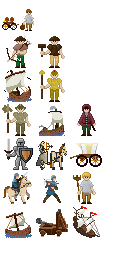
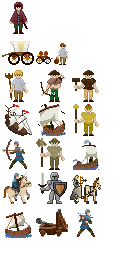
Unit: Implement composite bowman

Changed region(s): [[0.0, 0.0, 0.8125, 0.9375]]

diff --git a/core/src/main/java/me/rhin/openciv/game/unit/type/CompositeBowman.java b/core/src/main/java/me/rhin/openciv/game/unit/type/CompositeBowman.java
@@ -7,23 +7,23 @@ import me.rhin.openciv.asset.TextureEnum;
 import me.rhin.openciv.game.city.City;
 import me.rhin.openciv.game.map.tile.Tile;
 import me.rhin.openciv.game.map.tile.TileType.TileProperty;
-import me.rhin.openciv.game.research.type.ArcheryTech;
 import me.rhin.openciv.game.research.type.ConstructionTech;
+import me.rhin.openciv.game.research.type.MachineryTech;
 import me.rhin.openciv.game.unit.AttackableEntity;
 import me.rhin.openciv.game.unit.RangedUnit;
 import me.rhin.openciv.game.unit.UnitItem;
 import me.rhin.openciv.game.unit.UnitParameter;
 
-public class Archer extends UnitItem {
+public class CompositeBowman extends UnitItem {
 
-	public Archer(City city) {
+	public CompositeBowman(City city) {
 		super(city);
 	}
 
-	public static class ArcherUnit extends RangedUnit {
+	public static class CompositeBowmanUnit extends RangedUnit {
 
-		public ArcherUnit(UnitParameter unitParameter) {
-			super(unitParameter, TextureEnum.UNIT_ARCHER);
+		public CompositeBowmanUnit(UnitParameter unitParameter) {
+			super(unitParameter, TextureEnum.UNIT_COMPOSITE_BOWMAN);
 		}
 
 		@Override
@@ -36,7 +36,7 @@ public class Archer extends UnitItem {
 
 		@Override
 		public int getRangedCombatStrength(AttackableEntity target) {
-			return 7;
+			return 11;
 		}
 
 		@Override
@@ -46,47 +46,48 @@ public class Archer extends UnitItem {
 
 		@Override
 		public boolean canUpgrade() {
-			return playerOwner.getResearchTree().hasResearched(ConstructionTech.class);
+			return playerOwner.getResearchTree().hasResearched(MachineryTech.class);
 		}
 	}
 
 	@Override
 	protected float getUnitProductionCost() {
-		return 40;
+		return 75;
 	}
 
 	@Override
 	public float getGoldCost() {
-		return 100;
+		return 150;
 	}
 
 	@Override
 	public boolean meetsProductionRequirements() {
-
-		//Composite bowman can be built
-		if (city.getPlayerOwner().getResearchTree().hasResearched(ConstructionTech.class))
+		
+		//Crossbowman can be built.
+		if (city.getPlayerOwner().getResearchTree().hasResearched(MachineryTech.class))
 			return false;
-
-		return city.getPlayerOwner().getResearchTree().hasResearched(ArcheryTech.class);
+		
+		return city.getPlayerOwner().getResearchTree().hasResearched(ConstructionTech.class);
 	}
 
 	@Override
 	public String getName() {
-		return "Archer";
+		return "Composite Bowman";
 	}
 
 	@Override
 	public TextureEnum getTexture() {
-		return TextureEnum.UNIT_ARCHER;
+		return TextureEnum.UNIT_COMPOSITE_BOWMAN;
 	}
 
 	@Override
 	public String getDesc() {
-		return "A ancient ranged unit.";
+		return "A classical ranged unit.";
 	}
 
 	@Override
 	public List<UnitType> getUnitItemTypes() {
 		return Arrays.asList(UnitType.RANGED);
 	}
+	
 }

diff --git a/server/src/main/java/me/rhin/openciv/server/game/unit/type/CompositeBowman.java b/server/src/main/java/me/rhin/openciv/server/game/unit/type/CompositeBowman.java
@@ -7,25 +7,27 @@ import me.rhin.openciv.server.game.AbstractPlayer;
 import me.rhin.openciv.server.game.city.City;
 import me.rhin.openciv.server.game.map.tile.Tile;
 import me.rhin.openciv.server.game.map.tile.TileType.TileProperty;
+import me.rhin.openciv.server.game.research.type.ConstructionTech;
 import me.rhin.openciv.server.game.research.type.MachineryTech;
 import me.rhin.openciv.server.game.unit.RangedUnit;
 import me.rhin.openciv.server.game.unit.Unit;
 import me.rhin.openciv.server.game.unit.UnitItem;
+import me.rhin.openciv.server.game.unit.type.Crossbowman.CrossbowmanUnit;
 import me.rhin.openciv.shared.stat.Stat;
 
-public class Crossbowman extends UnitItem {
+public class CompositeBowman extends UnitItem {
 
-	public Crossbowman(City city) {
+	public CompositeBowman(City city) {
 		super(city);
 	}
 
-	public static class CrossbowmanUnit extends RangedUnit {
+	public static class CompositeBowmanUnit extends RangedUnit {
 
-		public CrossbowmanUnit(AbstractPlayer playerOwner, Tile standingTile) {
+		public CompositeBowmanUnit(AbstractPlayer playerOwner, Tile standingTile) {
 			super(playerOwner, standingTile);
 
-			combatStrength.setValue(Stat.COMBAT_STRENGTH, 24);
-			rangedCombatStrength.setValue(Stat.COMBAT_STRENGTH, 18);
+			combatStrength.setValue(Stat.COMBAT_STRENGTH, 18);
+			rangedCombatStrength.setValue(Stat.COMBAT_STRENGTH, 12);
 		}
 
 		@Override
@@ -43,33 +45,38 @@ public class Crossbowman extends UnitItem {
 
 		@Override
 		public Class<? extends Unit> getUpgradedUnit() {
-			return null;
+			return CrossbowmanUnit.class;
 		}
 
 		@Override
 		public String getName() {
-			return "Crossbowman";
+			return "Composite Bowman";
 		}
 	}
 
 	@Override
 	public float getUnitProductionCost() {
-		return 120;
+		return 75;
 	}
 
 	@Override
 	public float getGoldCost() {
-		return 200;
+		return 150;
 	}
 
 	@Override
 	public boolean meetsProductionRequirements() {
-		return city.getPlayerOwner().getResearchTree().hasResearched(MachineryTech.class);
+		
+		//Crossbowman can be built
+		if (city.getPlayerOwner().getResearchTree().hasResearched(MachineryTech.class))
+			return false;
+		
+		return city.getPlayerOwner().getResearchTree().hasResearched(ConstructionTech.class);
 	}
 
 	@Override
 	public String getName() {
-		return "Crossbowman";
+		return "Composite Bowman";
 	}
 
 	@Override
@@ -79,7 +86,7 @@ public class Crossbowman extends UnitItem {
 
 	@Override
 	public float getBaseCombatStrength() {
-		return 24;
+		return 18;
 	}
-	
+
 }

diff --git a/server/src/main/java/me/rhin/openciv/server/game/unit/type/Archer.java b/server/src/main/java/me/rhin/openciv/server/game/unit/type/Archer.java
@@ -8,9 +8,11 @@ import me.rhin.openciv.server.game.city.City;
 import me.rhin.openciv.server.game.map.tile.Tile;
 import me.rhin.openciv.server.game.map.tile.TileType.TileProperty;
 import me.rhin.openciv.server.game.research.type.ArcheryTech;
+import me.rhin.openciv.server.game.research.type.ConstructionTech;
 import me.rhin.openciv.server.game.unit.RangedUnit;
 import me.rhin.openciv.server.game.unit.Unit;
 import me.rhin.openciv.server.game.unit.UnitItem;
+import me.rhin.openciv.server.game.unit.type.CompositeBowman.CompositeBowmanUnit;
 import me.rhin.openciv.shared.stat.Stat;
 
 public class Archer extends UnitItem {
@@ -43,7 +45,7 @@ public class Archer extends UnitItem {
 
 		@Override
 		public Class<? extends Unit> getUpgradedUnit() {
-			return null;
+			return CompositeBowmanUnit.class;
 		}
 
 		@Override
@@ -64,6 +66,11 @@ public class Archer extends UnitItem {
 
 	@Override
 	public boolean meetsProductionRequirements() {
+		
+		//Composite bowman can be built
+		if (city.getPlayerOwner().getResearchTree().hasResearched(ConstructionTech.class))
+			return false;
+		
 		return city.getPlayerOwner().getResearchTree().hasResearched(ArcheryTech.class);
 	}
 

diff --git a/core/src/main/java/me/rhin/openciv/ui/window/type/GameOverlay.java b/core/src/main/java/me/rhin/openciv/ui/window/type/GameOverlay.java
@@ -94,7 +94,8 @@ public class GameOverlay extends AbstractWindow implements ResizeListener, TileS
 
 	public void setHoveredTile(Tile tile) {
 		if (!tile.isDiscovered() && Civilization.SHOW_FOG) {
-			tileNameLabel.setText("[" + tile.getGridX() + "," + tile.getGridY() + "] Undiscovered");
+			tileNameLabel.setText("Undiscovered");
+			//tileNameLabel.setText("[" + tile.getGridX() + "," + tile.getGridY() + "] Undiscovered");
 			// tileNameLabel.setSize(0, 15);
 			clearTileStatInfo();
 			return;
@@ -108,7 +109,8 @@ public class GameOverlay extends AbstractWindow implements ResizeListener, TileS
 		this.hoveredTile = tile;
 
 		// [grass,copper]
-		String tileName = "[" + tile.getGridX() + "," + tile.getGridY() + "] ";
+		//String tileName = "[" + tile.getGridX() + "," + tile.getGridY() + "] ";
+		String tileName = "";
 		int index = 0;
 		for (TileTypeWrapper typeWrapper : tile.getTileTypeWrappers()) {
 

diff --git a/core/src/main/java/me/rhin/openciv/game/production/ProducibleItemManager.java b/core/src/main/java/me/rhin/openciv/game/production/ProducibleItemManager.java
@@ -41,6 +41,7 @@ import me.rhin.openciv.game.unit.type.Caravan;
 import me.rhin.openciv.game.unit.type.CargoShip;
 import me.rhin.openciv.game.unit.type.Catapult;
 import me.rhin.openciv.game.unit.type.ChariotArcher;
+import me.rhin.openciv.game.unit.type.CompositeBowman;
 import me.rhin.openciv.game.unit.type.Crossbowman;
 import me.rhin.openciv.game.unit.type.Galley;
 import me.rhin.openciv.game.unit.type.Horseman;
@@ -91,6 +92,7 @@ public class ProducibleItemManager {
 		possibleItems.put("Horseman", new Horseman(city));
 		possibleItems.put("Cargo Ship", new CargoShip(city));
 		possibleItems.put("Pikeman", new Pikeman(city));
+		possibleItems.put("Composite Bowman", new CompositeBowman(city));
 		possibleItems.put("Crossbowman", new Crossbowman(city));
 
 		// Buildings

diff --git a/core/src/main/java/me/rhin/openciv/game/map/tile/TileType.java b/core/src/main/java/me/rhin/openciv/game/map/tile/TileType.java
@@ -21,7 +21,7 @@ public enum TileType {
 	TUNDRA_HILL(TextureEnum.TILE_TUNDRA_HILL, 2, TileLayer.BASE, TileProperty.MINEABLE),
 	OCEAN(TextureEnum.TILE_OCEAN, TileLayer.BASE, TileProperty.WATER),
 	SHALLOW_OCEAN(TextureEnum.TILE_SHALLOW_OCEAN, TileLayer.BASE, TileProperty.WATER),
-	MOUNTAIN(TextureEnum.TILE_MOUNTIAN, 1000000, TileLayer.MIDDLE),
+	MOUNTAIN(TextureEnum.TILE_MOUNTIAN, 1000000, TileLayer.HIGH),
 	FOREST(TextureEnum.TILE_FOREST, 2, TileLayer.HIGH, SoundEnum.WOOD_CHOP),
 	JUNGLE(TextureEnum.TILE_JUNGLE, 2, TileLayer.HIGH),
 	HORSES(TextureEnum.TILE_HORSES, TileLayer.MIDDLE, TileProperty.RESOURCE, TileProperty.ANIMAL),

diff --git a/core/src/main/java/me/rhin/openciv/Civilization.java b/core/src/main/java/me/rhin/openciv/Civilization.java
@@ -21,7 +21,7 @@ import me.rhin.openciv.ui.window.WindowManager;
 
 public class Civilization extends Game {
 
-	public static final boolean SHOW_FOG = true;
+	public static final boolean SHOW_FOG = false;
 	public static final boolean DEBUG_GL = false;
 	public static final boolean DEBUG_BOUNDING_BOXES = false; // NOTE: Overlay only.
 	public static final String LOG_TAG = "OpenCiv-INFO";

diff --git a/core/src/main/java/me/rhin/openciv/game/research/type/ConstructionTech.java b/core/src/main/java/me/rhin/openciv/game/research/type/ConstructionTech.java
@@ -33,7 +33,7 @@ public class ConstructionTech extends Technology {
 
 	@Override
 	public String getDesc() {
-		return "- Builders can build lumber \nmills\n- Unlocks Colosseum\n- Unlocks Terracotta Army";
+		return "- Builders can build lumber \nmills\n- Unlocks Colosseum\n- Unlocks Terracotta Army\n- Unlocks composite bowman";
 	}
 
 }

diff --git a/server/src/main/java/me/rhin/openciv/server/game/city/building/type/Palace.java b/server/src/main/java/me/rhin/openciv/server/game/city/building/type/Palace.java
@@ -11,7 +11,7 @@ public class Palace extends Building {
 
 		this.statLine.addValue(Stat.HERITAGE_GAIN, 1);
 		this.statLine.addValue(Stat.GOLD_GAIN, 3);
-		this.statLine.addValue(Stat.SCIENCE_GAIN, 3);
+		this.statLine.addValue(Stat.SCIENCE_GAIN, 999);
 		this.statLine.addValue(Stat.PRODUCTION_GAIN, 3);
 	}
 

diff --git a/server/src/main/java/me/rhin/openciv/server/game/map/tile/TileType.java b/server/src/main/java/me/rhin/openciv/server/game/map/tile/TileType.java
@@ -179,7 +179,7 @@ public enum TileType implements Comparable<TileType> {
 			return statLine;
 		}
 	},
-	MOUNTAIN(TileLayer.MIDDLE) {
+	MOUNTAIN(TileLayer.HIGH) {
 		@Override
 		public StatLine getStatLine() {
 			StatLine statLine = new StatLine();

diff --git a/server/src/main/java/me/rhin/openciv/server/game/options/GameOptionType.java b/server/src/main/java/me/rhin/openciv/server/game/options/GameOptionType.java
@@ -4,7 +4,7 @@ public enum GameOptionType {
 	MAP_LENGTH(3),
 	TURN_LENGTH_OFFSET(-1),
 	SHOW_OBSERVED_TILES(0),
-	BARBARIAN_AMOUNT(3),
+	BARBARIAN_AMOUNT(0),
 	CITY_STATE_AMOUNT(0);
 
 	private int defaultValue;

diff --git a/core/src/main/java/me/rhin/openciv/asset/TextureEnum.java b/core/src/main/java/me/rhin/openciv/asset/TextureEnum.java
@@ -78,6 +78,7 @@ public enum TextureEnum {
 	UNIT_TRANSPORT_SHIP,
 	UNIT_CARGO_SHIP,
 	UNIT_PIKEMAN,
+	UNIT_COMPOSITE_BOWMAN,
 	UNIT_CROSSBOWMAN,
 	BUILDING_MONUMENT,
 	BUILDING_MARKET,
